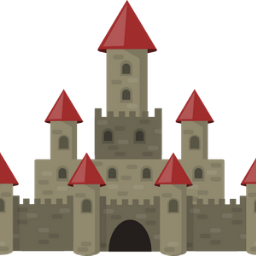
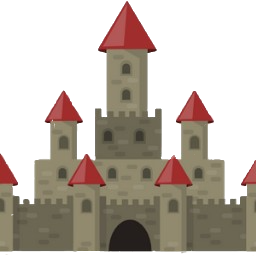
background moving half speed the player

diff --git a/odyssey/core/src/lewis/edu/game/OdysseyGame.java b/odyssey/core/src/lewis/edu/game/OdysseyGame.java
@@ -1,19 +1,17 @@
 package lewis.edu.game;
 
-import java.lang.System.Logger.Level;
 import java.util.ArrayList;
 import java.util.StringTokenizer;
+
 import com.badlogic.gdx.ApplicationAdapter;
-import com.badlogic.gdx.Game;
 import com.badlogic.gdx.Gdx;
 import com.badlogic.gdx.Input;
+import com.badlogic.gdx.Input.Keys;
 import com.badlogic.gdx.files.FileHandle;
 import com.badlogic.gdx.graphics.GL20;
 import com.badlogic.gdx.graphics.OrthographicCamera;
 import com.badlogic.gdx.graphics.g2d.SpriteBatch;
 import com.badlogic.gdx.math.Rectangle;
-import com.badlogic.gdx.utils.Array;
-import com.badlogic.gdx.Input.Keys;
 
 public class OdysseyGame extends ApplicationAdapter {
 	private OrthographicCamera cam;
@@ -22,6 +20,8 @@ public class OdysseyGame extends ApplicationAdapter {
 	private ArrayList<GameObject> list = new ArrayList<GameObject>();
 	private ArrayList<GameObject> pDelete = new ArrayList<GameObject>();
 	private ArrayList<GameObject> firstBackground = new ArrayList<GameObject>();
+	private ArrayList<GameObject> secBackground = new ArrayList<GameObject>();
+
 	private int level = 1;
 
 	@Override
@@ -66,12 +66,15 @@ public class OdysseyGame extends ApplicationAdapter {
 
 	@Override
 	public void render () {
-		Gdx.gl.glClearColor(1, 1, 1, 1);
+		Gdx.gl.glClearColor(0, 0, 0, 1);
 		Gdx.gl.glClear(GL20.GL_COLOR_BUFFER_BIT);
 		handleInput();
 		batch.setProjectionMatrix(cam.combined);
 
 		batch.begin();
+		for (GameObject t : secBackground) {
+			t.draw(batch);
+		}
 		for (GameObject t : firstBackground) {
 			t.draw(batch);
 		}
@@ -110,7 +113,11 @@ public class OdysseyGame extends ApplicationAdapter {
 			case 2:
 				switch(t.hitAction(2)) {
 				case 1:
+					float distance = player1.getHitBox().getX() - (t.getHitBox().x + t.getHitBox().width+1);
 					player1.action(2, t.getHitBox().x + t.getHitBox().width+1, 0);
+					for (GameObject B : secBackground) {
+						B.action(0, distance, 0);
+					}
 					break;
 				case 2:
 					player1.setPosition(0, 500);
@@ -127,7 +134,11 @@ public class OdysseyGame extends ApplicationAdapter {
 			case 3:
 				switch(t.hitAction(3)) {
 				case 1:
+				float distance = player1.getHitBox().getX() - (t.getHitBox().x - player1.getHitBox().width-1);
 					player1.action(3, t.getHitBox().x - player1.getHitBox().width - 1,0);
+					for (GameObject B : secBackground) {
+						B.action(0, distance, 0);
+					}
 					break;
 				case 2:
 					player1.setPosition(0, 500);
@@ -177,9 +188,15 @@ public class OdysseyGame extends ApplicationAdapter {
 		// Controls
 		if (Gdx.input.isKeyPressed(Input.Keys.LEFT)) {
 			player1.moveLeft(Gdx.graphics.getDeltaTime());
+			for (GameObject t : secBackground) {
+				t.moveLeft(Gdx.graphics.getDeltaTime());
+			}
 		}
 		if (Gdx.input.isKeyPressed(Input.Keys.RIGHT)) {
 			player1.moveRight(Gdx.graphics.getDeltaTime());
+			for (GameObject t : secBackground) {
+				t.moveRight(Gdx.graphics.getDeltaTime());
+			}
 		}
 		if (Gdx.input.isKeyPressed(Input.Keys.UP)) {
 			player1.jump();
@@ -199,6 +216,8 @@ public class OdysseyGame extends ApplicationAdapter {
 
 	public void nextLevel(String level) {
 		list.clear();
+		firstBackground.clear();
+		secBackground.clear();
 		FileHandle file = Gdx.files.internal(level);
 		StringTokenizer tokens = new StringTokenizer(file.readString());
 		while (tokens.hasMoreTokens()) {
@@ -222,6 +241,12 @@ public class OdysseyGame extends ApplicationAdapter {
 			} else if (type.equals("lava")) {
 				firstBackground.add(new Lava(
 					Integer.parseInt(tokens.nextToken()), 
+					Integer.parseInt(tokens.nextToken())));
+			}
+			else if (type.equals("volcano")) {
+				secBackground.add(new Volcano(
+					Integer.parseInt(tokens.nextToken()),
+					Integer.parseInt(tokens.nextToken()),
 					Integer.parseInt(tokens.nextToken())));
 			}
 		}

diff --git a/odyssey/core/src/lewis/edu/game/Volcano.java b/odyssey/core/src/lewis/edu/game/Volcano.java
@@ -1,0 +1,78 @@
+package lewis.edu.game;
+
+import com.badlogic.gdx.graphics.g2d.Sprite;
+import com.badlogic.gdx.graphics.g2d.SpriteBatch;
+import com.badlogic.gdx.math.Rectangle;
+
+public class Volcano extends GameObject {
+
+    Sprite sprite;
+    public Volcano (float x, float y, float size) {
+        sprite = new Sprite(TexManager.volcano);
+        sprite.setSize(64*size, 64*size);
+        this.setPosition(x, y);
+    }
+
+    @Override
+    public void action(int type, float x, float y) {
+        setPosition(sprite.getX() - x/2, sprite.getY());
+
+    }
+
+    @Override
+    public void draw(SpriteBatch batch) {
+        sprite.draw(batch);
+
+    }
+
+    @Override
+    public Rectangle getHitBox() {
+        // TODO Auto-generated method stub
+        return null;
+    }
+
+    @Override
+    public int hitAction(int side) {
+        // TODO Auto-generated method stub
+        return 0;
+    }
+
+    @Override
+    public int hits(Rectangle r) {
+        // TODO Auto-generated method stub
+        return 0;
+    }
+
+    @Override
+    public void jump() {
+        // TODO Auto-generated method stub
+
+    }
+
+    @Override
+    public void moveLeft(float delta) {
+        int speed = 140;
+        setPosition(sprite.getX() - (speed * delta), sprite.getY());
+
+    }
+
+    @Override
+    public void moveRight(float delta) {
+        int speed = 140;
+        setPosition(sprite.getX() + (speed * delta), sprite.getY());
+
+    }
+
+    @Override
+    public void setPosition(float x, float y) {
+        sprite.setPosition(x, y);
+
+    }
+
+    @Override
+    public void update(float delta) {
+        // TODO Auto-generated method stub
+
+    }
+    
+}

diff --git a/odyssey/core/src/lewis/edu/game/TexManager.java b/odyssey/core/src/lewis/edu/game/TexManager.java
@@ -10,6 +10,7 @@ public class TexManager {
     public static Texture castle;
     public static Texture obstacle;
     public static Texture lava;
+    public static Texture volcano;
     
 
     public static void create() {
@@ -19,6 +20,8 @@ public class TexManager {
         castle =  new Texture(Gdx.files.internal("images/castle.png"));
         obstacle = new Texture("images/spikes.png");
         lava = new Texture ("images/lava1.png");
+        volcano = new Texture ("images/volcano.png");
+
     }
     public static void dispose() {
         brick.dispose();
@@ -27,5 +30,6 @@ public class TexManager {
         castle.dispose();
         obstacle.dispose();
         lava.dispose();
+        volcano.dispose();
     }
 }

diff --git a/odyssey/core/src/lewis/edu/game/Warriors.java b/odyssey/core/src/lewis/edu/game/Warriors.java
@@ -78,7 +78,7 @@ public class Warriors extends GameObject {
     }
 
     public void moveLeft(float delta) {
-        int speed = 170;
+        int speed = 200;
         setPosition(bottom.x - (speed * delta), bottom.y);
         if (direction == 0) {
             direction = 1;
@@ -87,7 +87,7 @@ public class Warriors extends GameObject {
     }
 
     public void moveRight(float delta) {
-        int speed = 170;
+        int speed = 200;
         setPosition(bottom.x + (speed * delta), bottom.y);
         if (direction == 1) {
             direction = 0;
